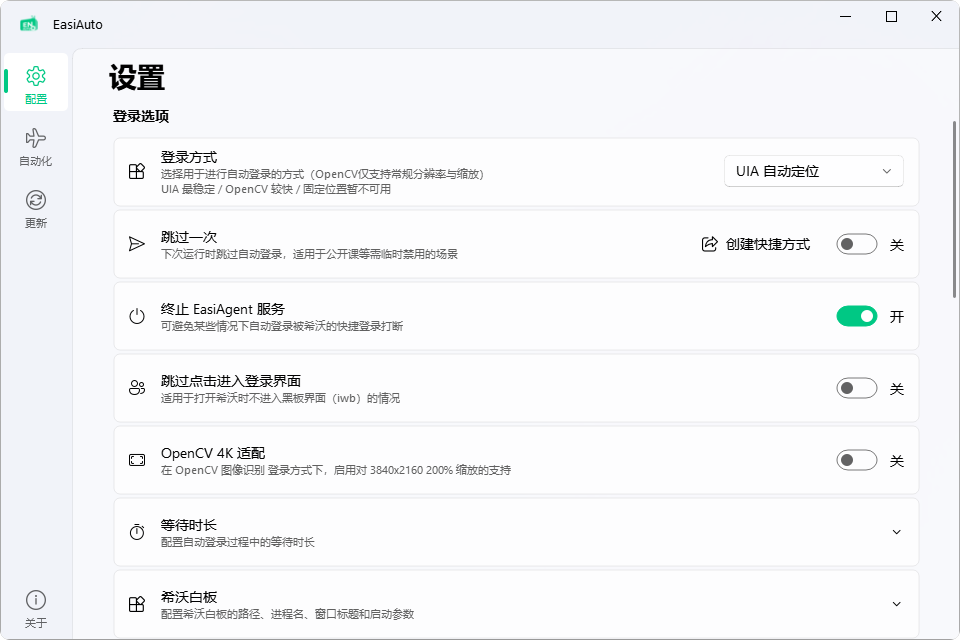
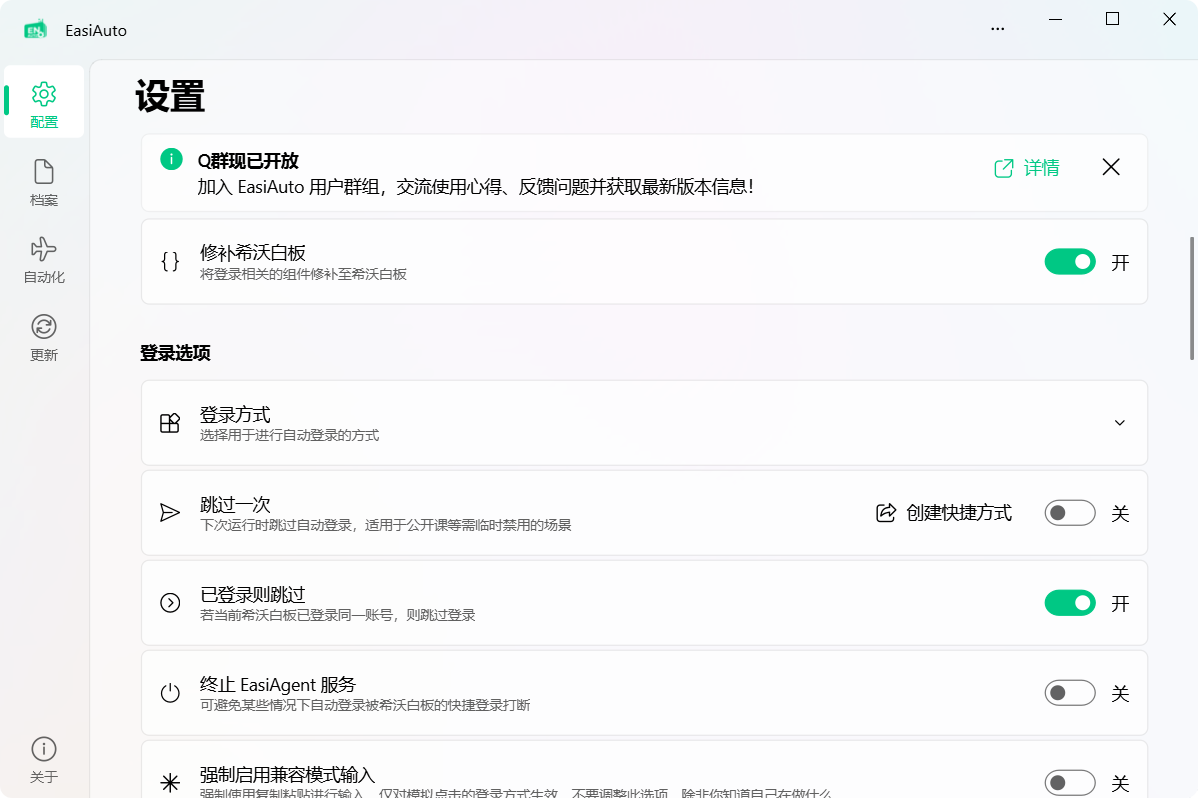
feat: 更新README中的界面截图

diff --git a/README.md b/README.md
@@ -51,13 +51,17 @@
 
 <img src="docs/ui/banner.png" alt="警示横幅"> <br> 警示横幅
 
-<img src="docs/ui/warning.png" alt="运行前警告"> <br> 运行前警告弹窗
-
 <img src="docs/ui/setting.png" alt="设置页" height="400px"> <br> 设置页
 
-<img src="docs/ui/ciautoedit.png" alt="自动化页" height="400px"> <br> 自动化页
+<img src="docs/ui/profile-edit.png" alt="档案页" height="400px"> <br> 档案页
 
-<img src="docs/ui/update.png" alt="更新页" height="400px"> <br> 更新页
+<img src="docs/ui/ci-auto-edit.png" alt="自动化页" height="400px"> <br> 自动化页
+
+<img src="docs/ui/update-log.png" alt="更新页" height="400px"> <br> 更新页
+
+<img src="docs/ui/pre-run-popup.png" alt="运行前警告"> <br> 运行前警告弹窗
+
+<img src="docs/ui/status-overlay.png" alt="登录状态浮窗"> <br> 登录状态浮窗
 
 </div>
 
